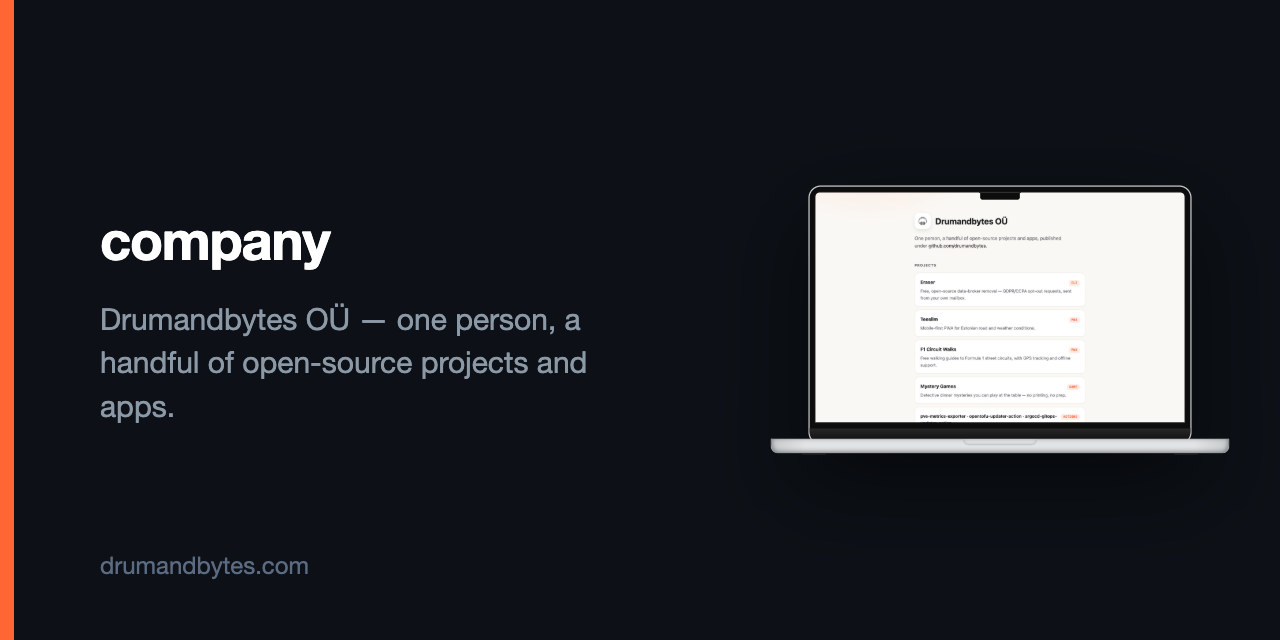
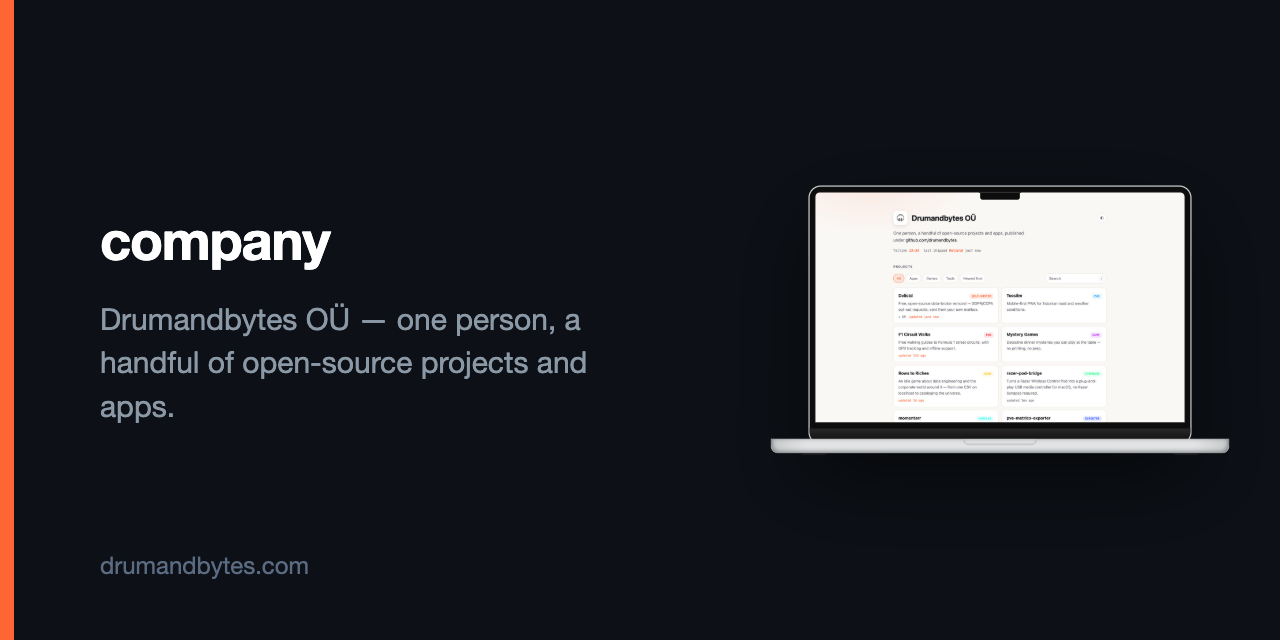
docs: refresh org profile and social cards (#31)
Profile: describe the org as the open-source home of Drumandbytes OÜ with a
drumandbytes.ee link, fix the Delistd ref tag (org-profile), add Mystery
Games and dnb-cal, and give projects a consistent stars/updated badge row.
Social cards: drop the removed dotfiles card, add rows-to-riches,
razer-pod-bridge and dnb-cal, refresh homebrew-tap and the company card.

Changed region(s): [[0.6875, 0.4375, 0.8438, 0.6562], [0.6875, 0.3125, 0.8125, 0.4375]]

diff --git a/profile/README.md b/profile/README.md
@@ -15,10 +15,11 @@
 
 ---
 
-**Drum and Bytes** is the personal GitHub organization of [Māris Popēns](https://maris.popens.eu/) —
-a data engineer based in Tallinn, Estonia. It's where side projects, homelab experiments, and
-small tools graduate from *"works on my machine"* into something other people can run. Most of
-it is open source under the MIT licence.
+**Drum and Bytes** is the open-source home of [**Drumandbytes OÜ**](https://drumandbytes.ee/?ref=org-profile),
+a one-person company in Tallinn, Estonia, run by [Māris Popēns](https://maris.popens.eu/), a data
+engineer. It's where side projects, homelab experiments, and small tools graduate from
+*"works on my machine"* into something other people can run. Most of it is open source under the
+MIT licence.
 
 ## Latest from the blog
 
@@ -53,7 +54,14 @@ re-platforms, to cataloging the universe. Prestige layers, timed challenges, opt
 and offline play. Source-available under PolyForm Noncommercial.<br>
 <sub>
 <a href="https://rowstoriches.drumandbytes.dev/?ref=org-profile"><img src="https://img.shields.io/badge/play-rowstoriches.drumandbytes.dev-2b8a3e?style=flat-square" alt="Play"></a>
+<a href="https://github.com/drumandbytes/rows-to-riches/stargazers"><img src="https://img.shields.io/github/stars/drumandbytes/rows-to-riches?style=flat-square" alt="Stars"></a>
 <a href="https://github.com/drumandbytes/rows-to-riches/commits"><img src="https://img.shields.io/github/last-commit/drumandbytes/rows-to-riches?style=flat-square&label=updated" alt="Last commit"></a>
+</sub>
+
+**[Mystery Games](https://mystery.drumandbytes.dev/?ref=org-profile)** — detective dinner mysteries you can
+play at the table, with no printing and no prep.<br>
+<sub>
+<a href="https://mystery.drumandbytes.dev/?ref=org-profile"><img src="https://img.shields.io/badge/play-mystery.drumandbytes.dev-2b8a3e?style=flat-square" alt="Play"></a>
 </sub>
 
 ### 🏎 Formula 1
@@ -63,6 +71,7 @@ circuits (Monaco, Baku, Singapore, Las Vegas, Melbourne) with GPS tracking, corn
 history, and offline support.<br>
 <sub>
 <a href="https://f1walk.drumandbytes.dev/?ref=org-profile"><img src="https://img.shields.io/badge/live-f1walk.drumandbytes.dev-2b8a3e?style=flat-square" alt="Live site"></a>
+<a href="https://github.com/drumandbytes/f1-walk/stargazers"><img src="https://img.shields.io/github/stars/drumandbytes/f1-walk?style=flat-square" alt="Stars"></a>
 <a href="https://github.com/drumandbytes/f1-walk/commits"><img src="https://img.shields.io/github/last-commit/drumandbytes/f1-walk?style=flat-square&label=updated" alt="Last commit"></a>
 </sub>
 
@@ -77,9 +86,10 @@ cached around the race calendar instead of a fixed TTL.<br>
 
 ### 🛡 Privacy
 
-**[Delistd](https://delistd.dev/?ref=org-readme)** (formerly eraser) — free, open-source data-broker removal.
+**[Delistd](https://delistd.dev/?ref=org-profile)** (formerly eraser) — free, open-source data-broker removal.
 Sends GDPR/CCPA opt-out requests to 700+ brokers automatically, with EU-specific handling.<br>
 <sub>
+<a href="https://delistd.dev/?ref=org-profile"><img src="https://img.shields.io/badge/live-delistd.dev-2b8a3e?style=flat-square" alt="Live site"></a>
 <a href="https://github.com/drumandbytes/delistd/stargazers"><img src="https://img.shields.io/github/stars/drumandbytes/delistd?style=flat-square" alt="Stars"></a>
 <a href="https://github.com/drumandbytes/delistd/commits"><img src="https://img.shields.io/github/last-commit/drumandbytes/delistd?style=flat-square&label=updated" alt="Last commit"></a>
 </sub>
@@ -89,12 +99,18 @@ Sends GDPR/CCPA opt-out requests to 700+ brokers automatically, with EU-specific
 **[opentofu-updater-action](https://github.com/drumandbytes/opentofu-updater-action)** — keeps
 OpenTofu / Terraform providers, modules, Helm charts and container images current by opening
 pull requests.<br>
-<sub><a href="https://github.com/drumandbytes/opentofu-updater-action/releases"><img src="https://img.shields.io/github/v/tag/drumandbytes/opentofu-updater-action?style=flat-square&label=release&sort=semver" alt="Latest release"></a></sub>
+<sub>
+<a href="https://github.com/drumandbytes/opentofu-updater-action/stargazers"><img src="https://img.shields.io/github/stars/drumandbytes/opentofu-updater-action?style=flat-square" alt="Stars"></a>
+<a href="https://github.com/drumandbytes/opentofu-updater-action/releases"><img src="https://img.shields.io/github/v/tag/drumandbytes/opentofu-updater-action?style=flat-square&label=release&sort=semver" alt="Latest release"></a>
+</sub>
 
 **[argocd-gitops-updater-action](https://github.com/drumandbytes/argocd-gitops-updater-action)** —
 Helm chart and image version bumps for GitOps repos. ArgoCD / Kustomize aware, with
 Slack / Teams / Discord / Telegram notifications.<br>
-<sub><a href="https://github.com/drumandbytes/argocd-gitops-updater-action/releases"><img src="https://img.shields.io/github/v/tag/drumandbytes/argocd-gitops-updater-action?style=flat-square&label=release&sort=semver" alt="Latest release"></a></sub>
+<sub>
+<a href="https://github.com/drumandbytes/argocd-gitops-updater-action/stargazers"><img src="https://img.shields.io/github/stars/drumandbytes/argocd-gitops-updater-action?style=flat-square" alt="Stars"></a>
+<a href="https://github.com/drumandbytes/argocd-gitops-updater-action/releases"><img src="https://img.shields.io/github/v/tag/drumandbytes/argocd-gitops-updater-action?style=flat-square&label=release&sort=semver" alt="Latest release"></a>
+</sub>
 
 **[github-actions-runner-exporter](https://github.com/drumandbytes/github-actions-runner-exporter)** —
 Prometheus exporter for GitHub Actions self-hosted runner status (online/busy), polling the org
@@ -145,6 +161,14 @@ right app.<br>
 <a href="https://github.com/drumandbytes/music-router/commits"><img src="https://img.shields.io/github/last-commit/drumandbytes/music-router?style=flat-square&label=updated" alt="Last commit"></a>
 </sub>
 
+**[dnb-cal](https://github.com/drumandbytes/dnb-cal)** — tiny macOS helper that reads Apple Calendar
+events through EventKit, so scripts and launchd / Hammerspoon / SketchyBar helpers can get them
+without a terminal's permissions.<br>
+<sub>
+<a href="https://github.com/drumandbytes/dnb-cal/stargazers"><img src="https://img.shields.io/github/stars/drumandbytes/dnb-cal?style=flat-square" alt="Stars"></a>
+<a href="https://github.com/drumandbytes/dnb-cal/commits"><img src="https://img.shields.io/github/last-commit/drumandbytes/dnb-cal?style=flat-square&label=updated" alt="Last commit"></a>
+</sub>
+
 ## Built with
 
 <p>
@@ -180,4 +204,6 @@ Built and maintained by **[@JustMaris](https://github.com/JustMaris)** —
   <a href="mailto:contact@drumandbytes.com">contact@drumandbytes.com</a>
   &nbsp;·&nbsp;
   <a href="https://drumandbytes.com/?ref=org-profile">drumandbytes.com</a>
+  &nbsp;·&nbsp;
+  <a href="https://drumandbytes.ee/?ref=org-profile">Drumandbytes OÜ</a>
 </p>
